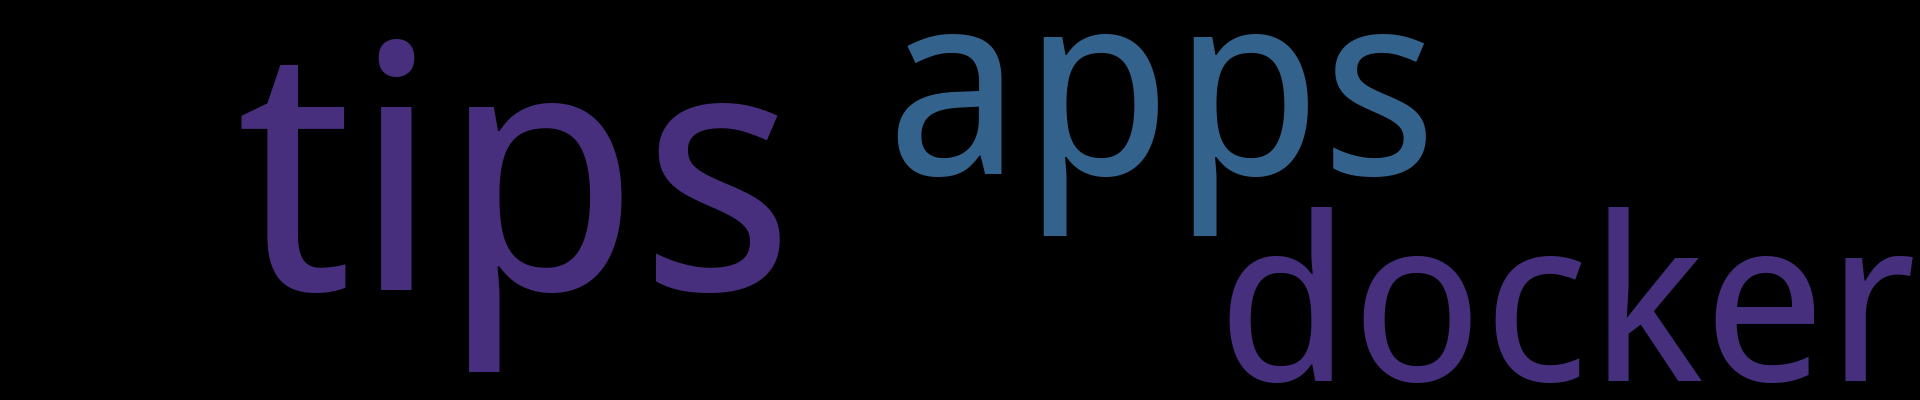
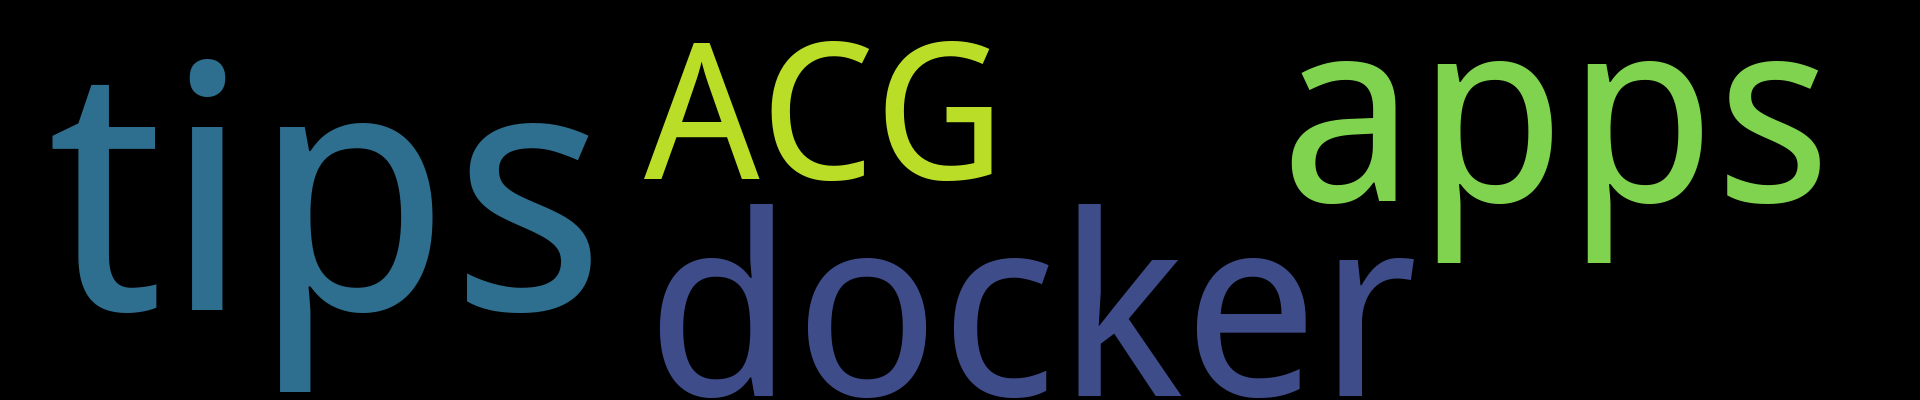
Update from Github Action

Changed region(s): [[0.0, 0.09, 1.0, 1.0], [0.1875, 0.09, 0.2188, 0.21]]

diff --git a/README.md b/README.md
@@ -1,7 +1,7 @@
 
 <p align='center'>
     <img src="https://badgen.net/github/issues/syaofox//syaofox.github.io"/>
-    <img src="https://badgen.net/badge/last-commit/2025-10-03 07:38:15"/>
+    <img src="https://badgen.net/badge/last-commit/2025-10-03 07:53:31"/>
     <img src="https://badgen.net/github/forks/syaofox//syaofox.github.io"/>
     <img src="https://badgen.net/github/stars/syaofox//syaofox.github.io"/>
     <img src="https://badgen.net/github/watchers/syaofox//syaofox.github.io"/>
@@ -12,6 +12,14 @@
     <a href="https://syaofox.github.io//syaofox.github.io/"><img src="assets/wordcloud.png" title="词云" alt="词云"></a>
 </summary>  
 
+<details open>
+<summary>ACG	[1篇]</summary>
+
+- 2025-10-03 [夏日的回忆~同级生2](https://github.com/syaofox/syaofox.github.io/issues/10) 
+
+
+</details>
+            
 <details open>
 <summary>apps	[2篇]</summary>
 
